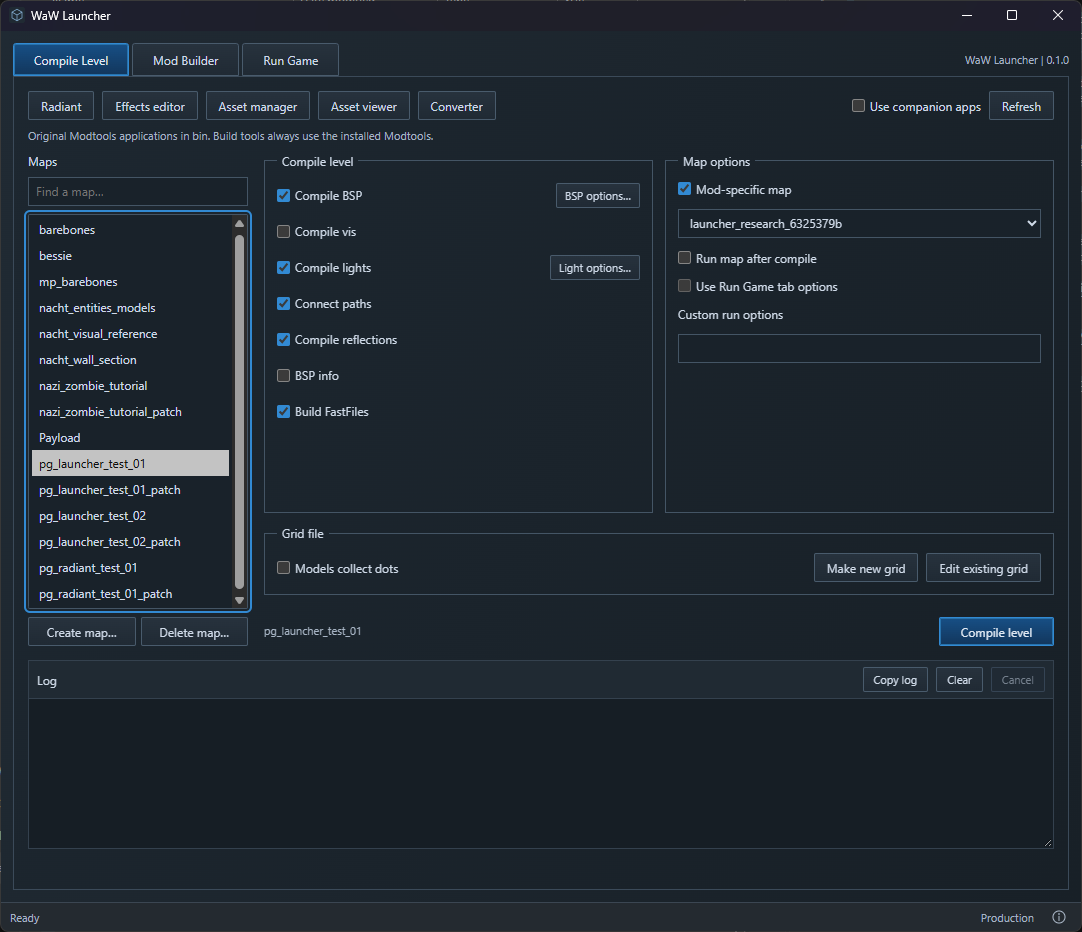
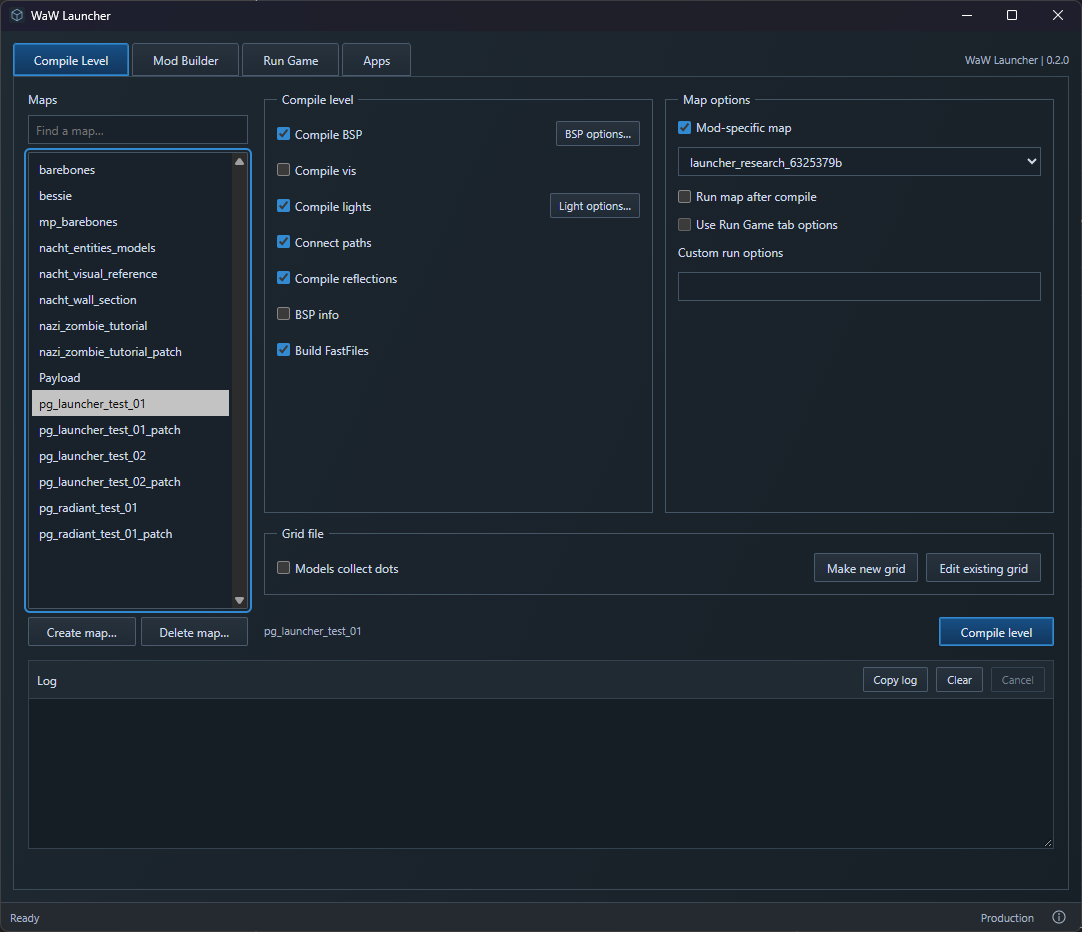
Show updated v0.2.0 screenshot with a versioned image URL

diff --git a/README.md b/README.md
@@ -6,9 +6,7 @@ The original World at War Modtools Launcher workflows with a new UI. Open the ed
 
 It runs your installed Modtools executables with the original commands and stage order. It does not replace the compilers, sound converter or IWD archiver. Confirmed original bugs are fixed: broken options, failed builds publishing old files, unsafe map deletion and settings losing comma values.
 
-![WaW Launcher](images/waw-launcher.png)
-
-v0.1.0 shown; app shortcuts now live in the **Apps** tab.
+![WaW Launcher v0.2.0](images/waw-launcher-v0.2.0.png)
 
 ## Download and run
 
